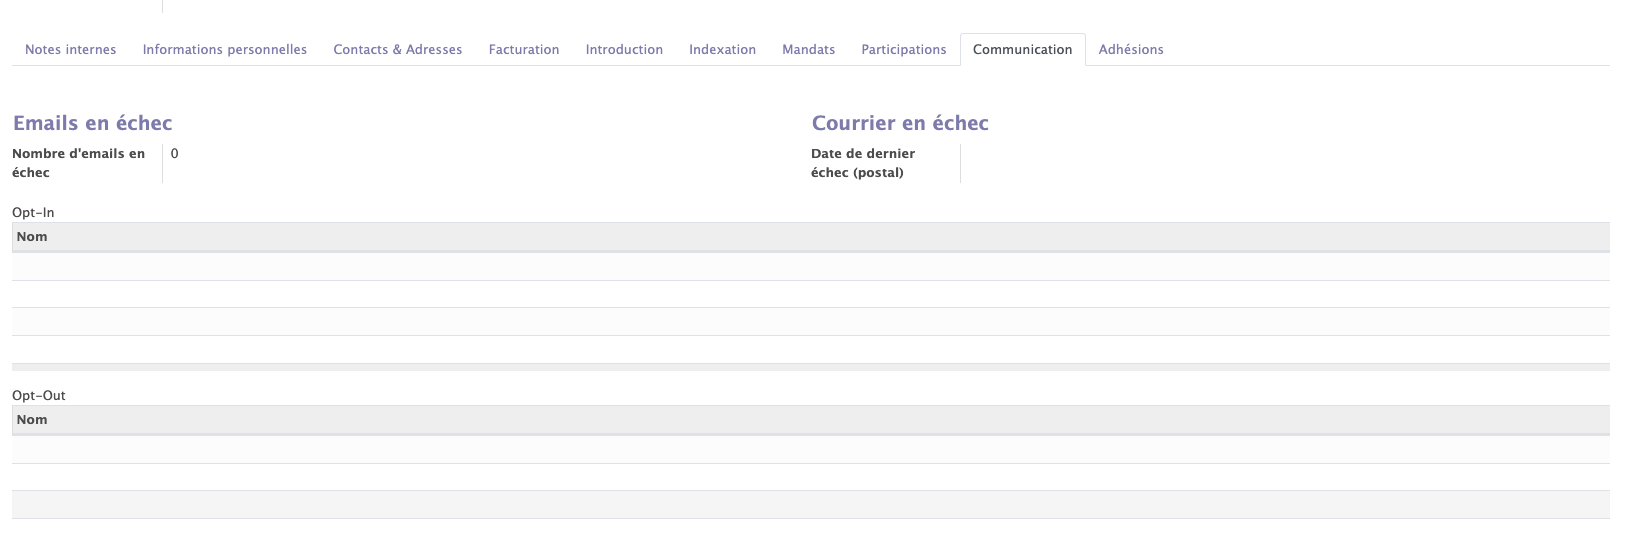
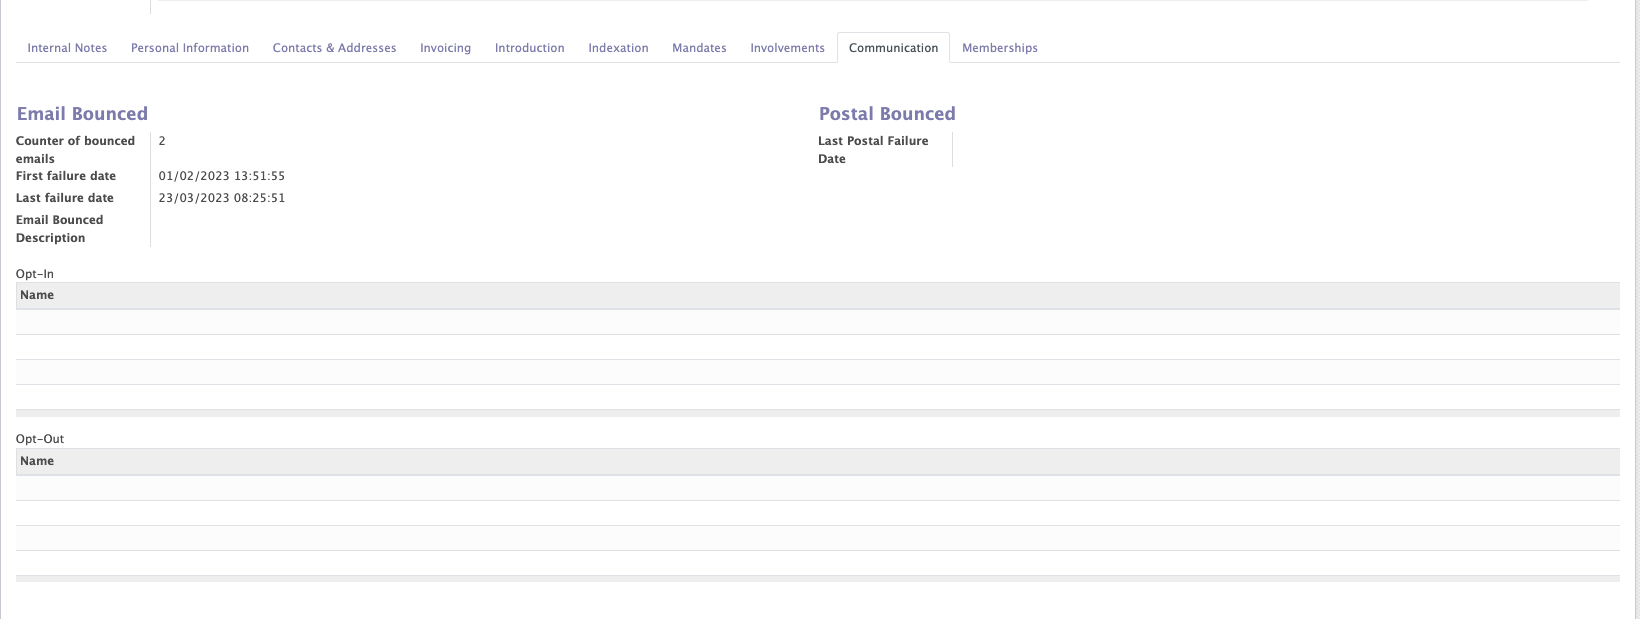
Management of failure modif

diff --git a/docs/email-marketing.md b/docs/email-marketing.md
@@ -57,22 +57,23 @@ In the mailing configurations, it is possible to select the option "recurrent se
  <figcaption>Example of recurrent mailing</figcaption>
 </figure>  
 
-## Follow-up of the mails
-
-The marketing email module allow you to folluw-up the stage of your differents emails in progress. The differents items are displayed in a kanban view and automatically move from one stage to another depending on whether they are still in project, pending, being sent or sent. 
-
 ## Management of failure
 
-All communication failures must be recorded in the application. This information is visible on the record of each contact. If a contact does not receive an email sent, a communication failure will be recorded on his card.
-!!! info inline end "Info"
+All communication failures must be recorded in the application. This information is visible on the record of each contact in the "communication" tab. If a contact does not receive an email or a letter sent, a communication failure will be recorded on his contact's form.
+!!! abstract "The goal of failure management"
 
-    After a certain number of errors, the contact can be placed in a blacklist in order to not continue to send him emails that he will not receive.
+    This fonctionnnality allows you to blacklist a contact after a certain number of failure to stop sending him emails or letters that he will not receive.
+
+How to encode failures on the  contact's form ? :
 
 - Postal returns: must be manually encoded 
 - Electronic returns: records are automatic
-- Unsuccessful phone calls: must be manually entered 
+- Unsuccessful phone calls: must be manually entered --> pas certain 
 
+<figure markdown>
 ![screenshot 23](img/screen23.png)
+ <figcaption>Example of encoded failures</figcaption>
+</figure>  
 
 ## Reporting
 
